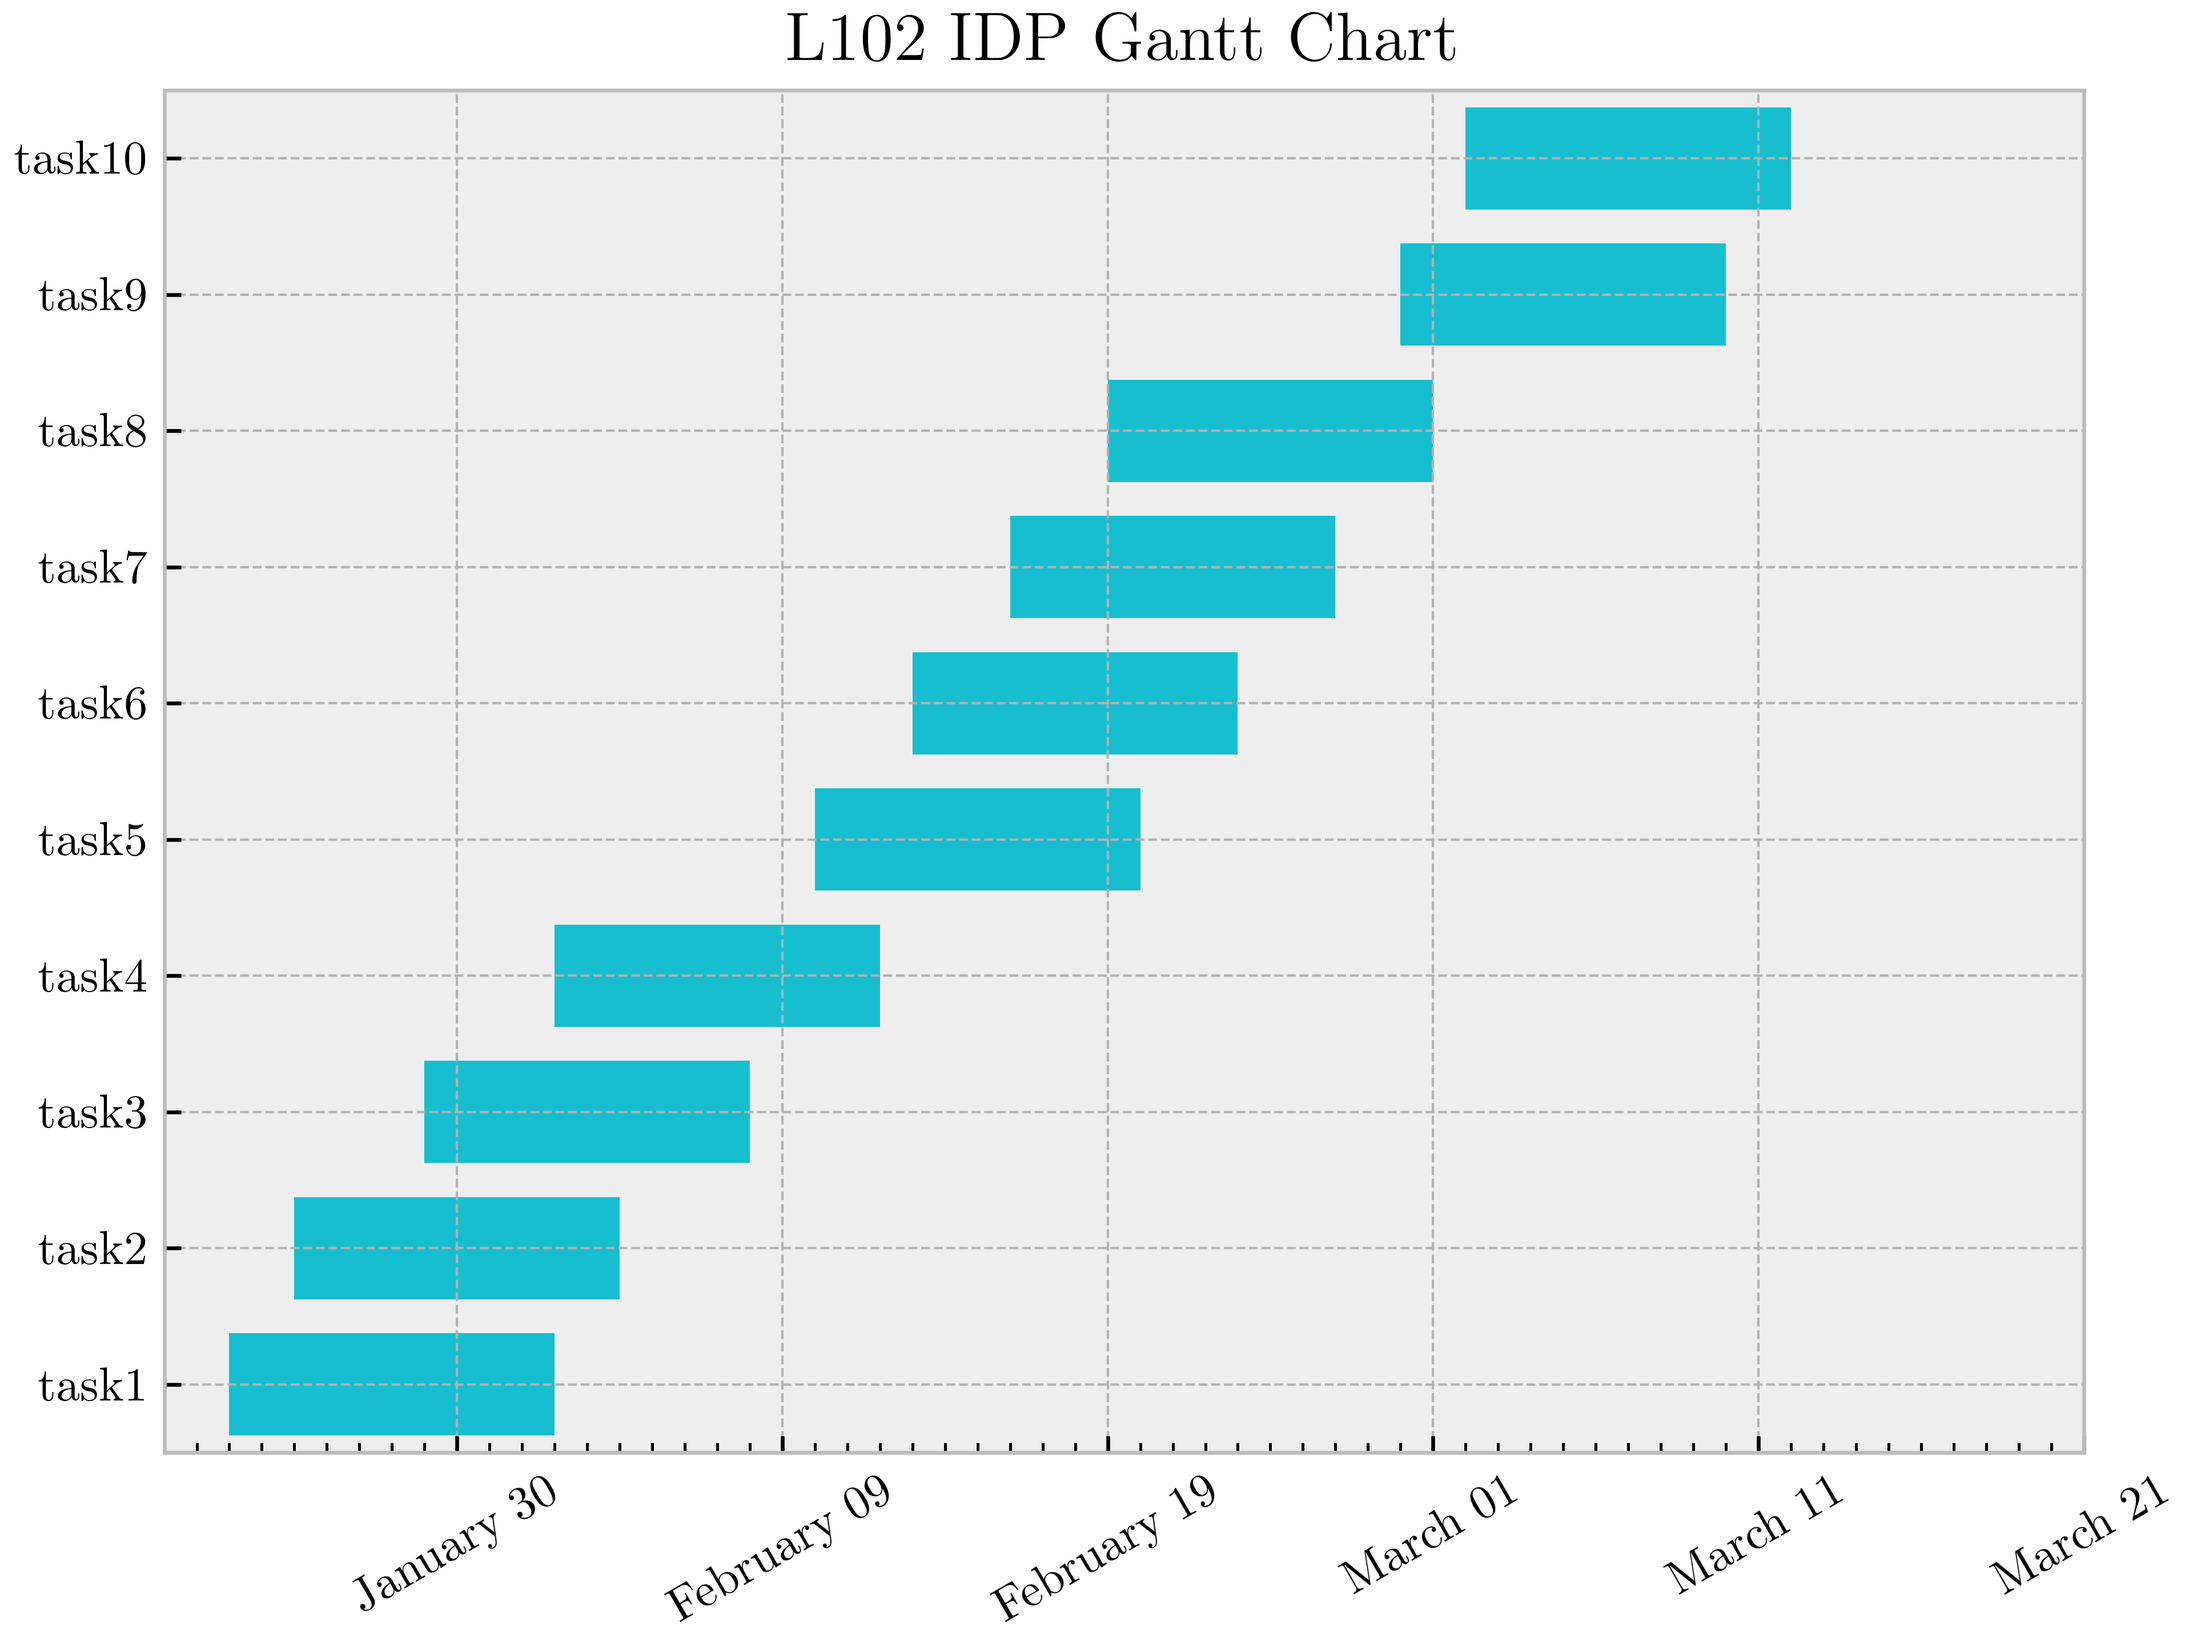
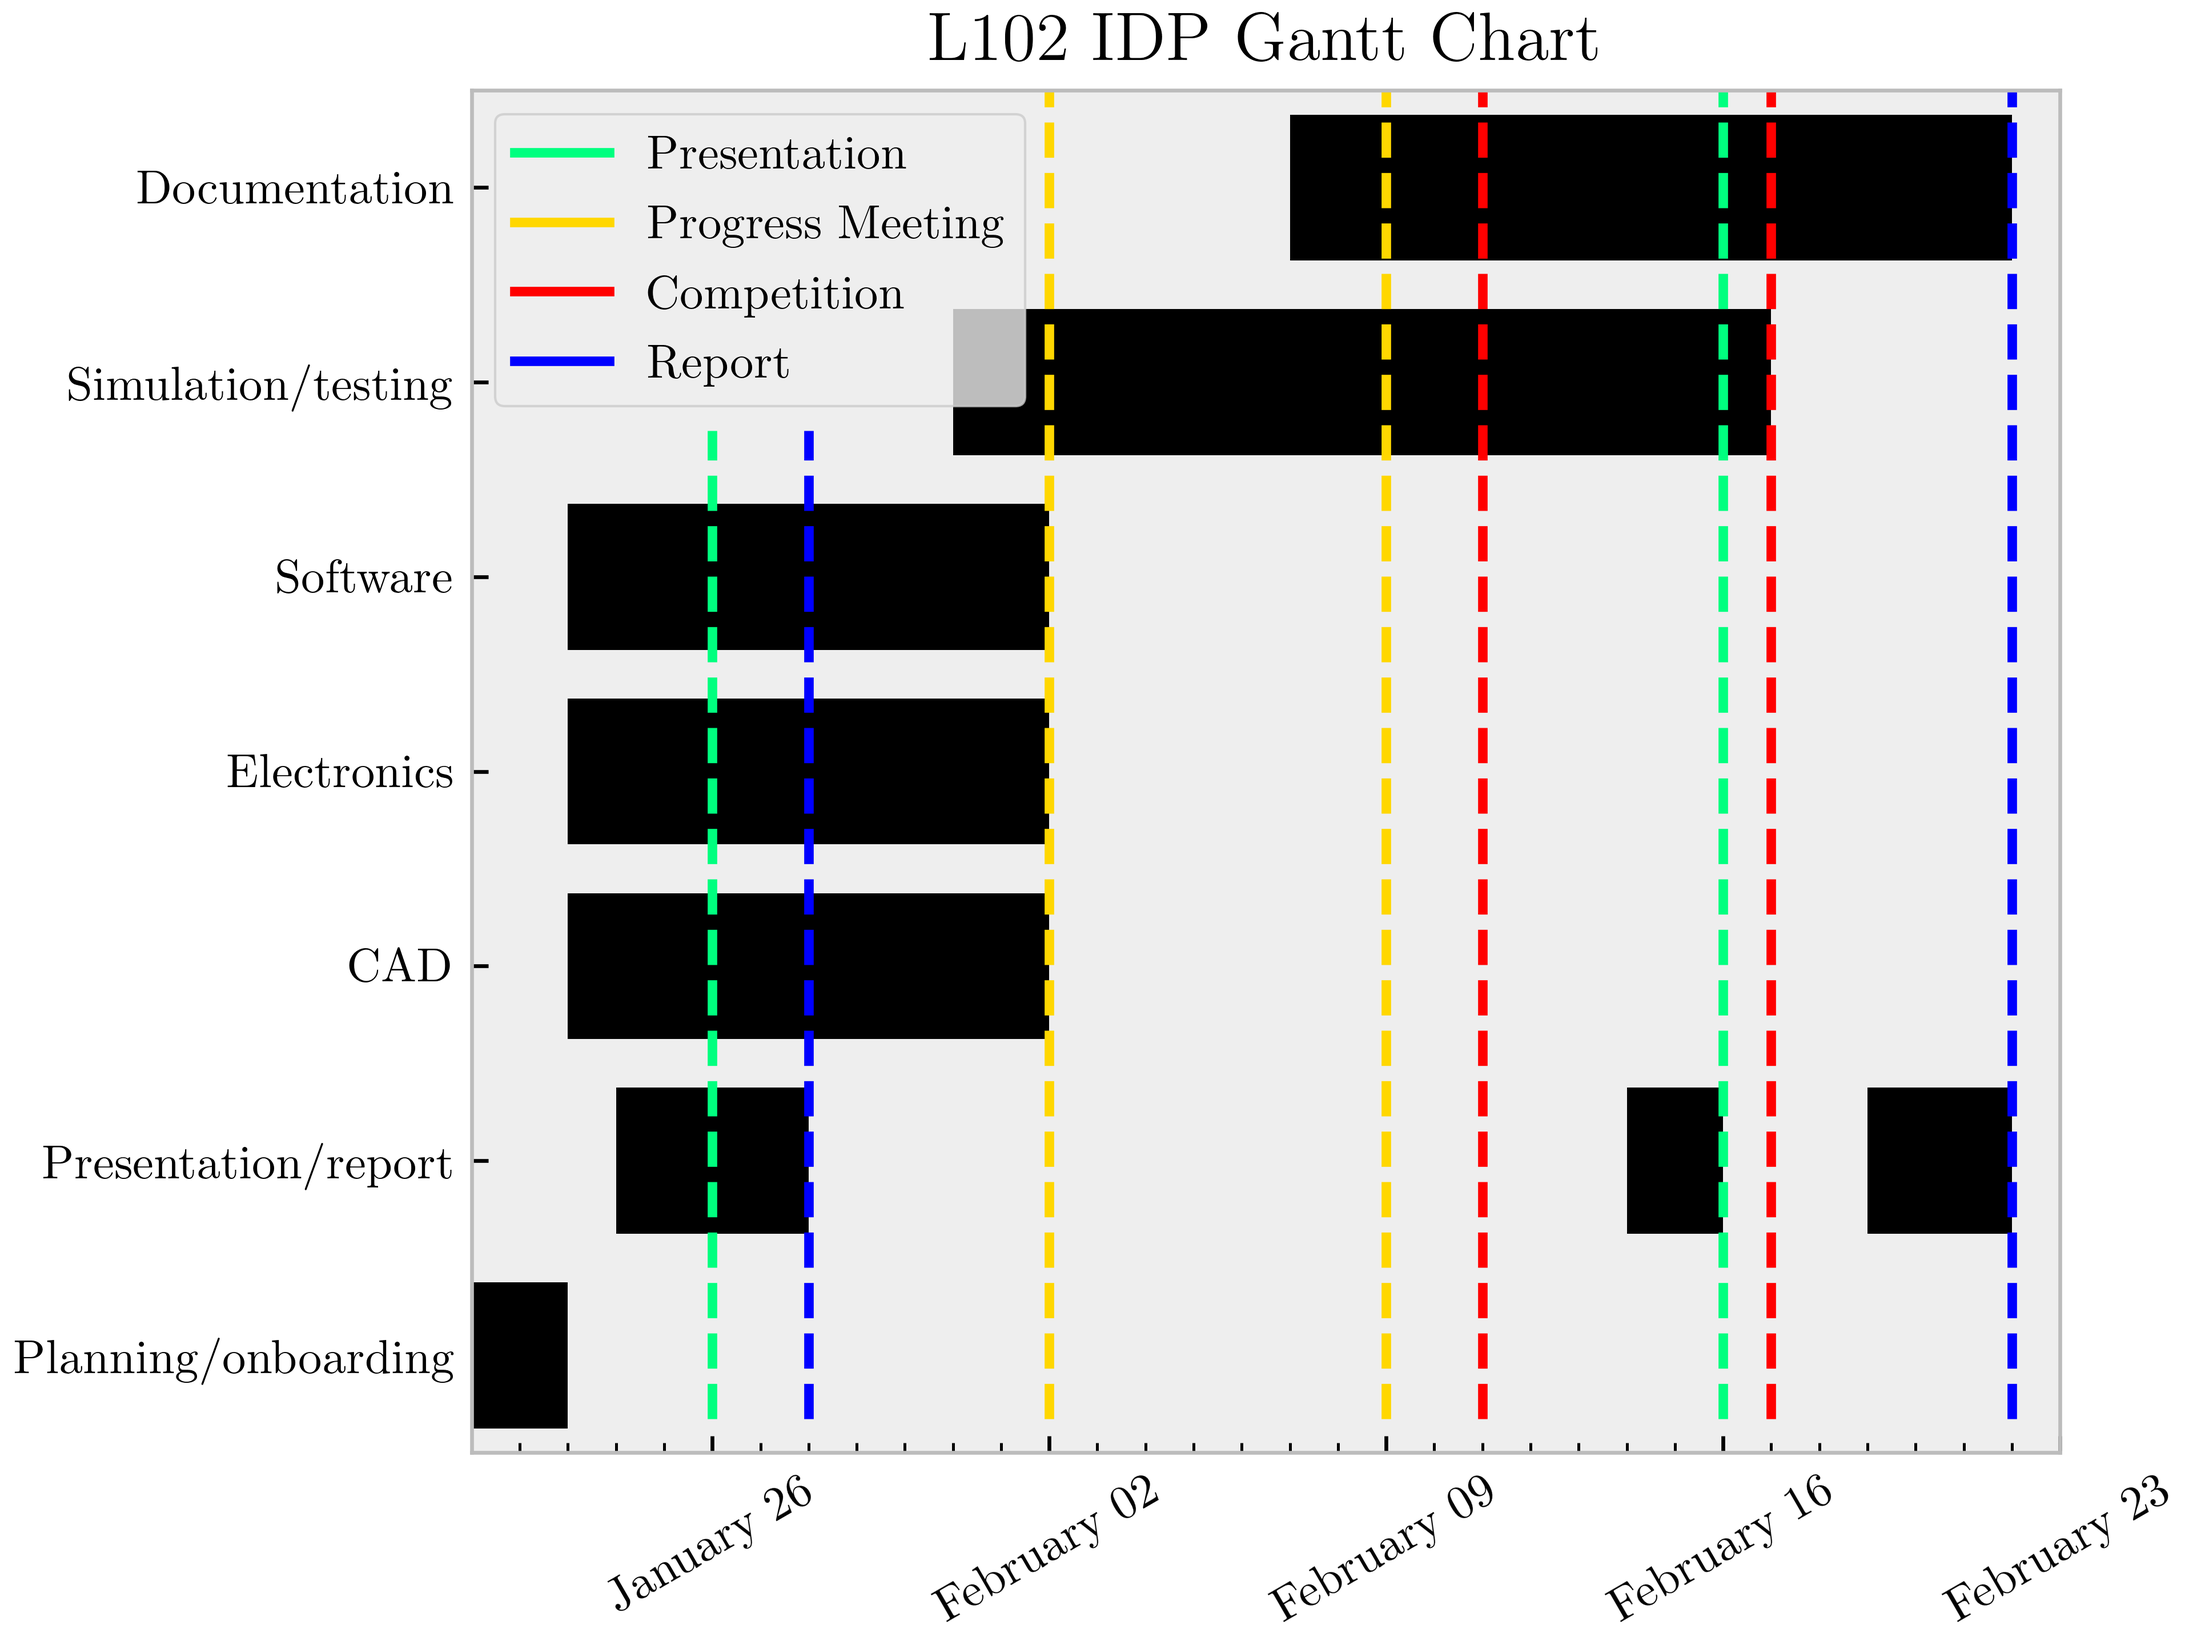
Updated gant chart.

diff --git a/ganttChart.py b/ganttChart.py
@@ -1,5 +1,6 @@
 import numpy as np
 import datetime
+from matplotlib.lines import Line2D
 import matplotlib.pylab as plt
 import matplotlib.dates as mdates
 import pandas as pd
@@ -11,40 +12,59 @@ plt.rc('font', family='serif')
 
 base = datetime.datetime(2021, 1, 21)
 dates = np.array([base + datetime.timedelta(days=(i))
-                  for i in range(60)])
+                  for i in range(34)])
 
-N = len(dates)
-np.random.seed(19680801)
-y = np.cumsum(np.random.randn(N))
 
 fig, ax = plt.subplots(constrained_layout=True)
 
 
 #format the ticks
-ax.xaxis.set_major_locator(mdates.DayLocator(bymonthday=range(1,32), interval=10))
+#ax.xaxis.set_major_locator(mdates.DayLocator(bymonthday=range(1,32), interval=7))
+ax.xaxis.set_major_locator(mdates.WeekdayLocator(byweekday=1, interval=1))
 ax.xaxis.set_major_formatter(mdates.DateFormatter('%B %d'))
 ax.xaxis.set_minor_locator(mdates.DayLocator(bymonthday=range(1,32)))
 
-ax.set_yticks([0.5, 1.5, 2.5, 3.5, 4.5, 5.5, 6.5, 7.5, 8.5, 9.5])
-ax.set_yticklabels(['task1', 'task2', 'task3', 'task4', 'task5', 'task6', 'task7', 'task8', 'task9', 'task10'])
+ax.set_yticks([0.5, 1.5, 2.5, 3.5, 4.5, 5.5, 6.5])
+ax.set_yticklabels(['Planning/onboarding', 'Presentation/report', 'CAD', 'Electronics', 'Software', 'Simulation/testing', 'Documentation', ])
 ax.set_xlim(mdates.date2num(dates[0]), mdates.date2num(dates[-1]))
-ax.set_ylim(0,10)
+ax.set_ylim(0,7)
 
 #broken barh
 #ax.broken_barh([(mdates.date2num(dates[0]), mdates.date2num(dates[10]))], (2,1), facecolors = ('tab:red'))
-ax.broken_barh([(mdates.date2num(dates[2]), 10)], (0.125, .75), facecolors='tab:cyan')
-ax.broken_barh([(mdates.date2num(dates[4]), 10)], (1.125, .75), facecolors='tab:cyan')
-ax.broken_barh([(mdates.date2num(dates[8]), 10)], (2.125, .75), facecolors='tab:cyan')
-ax.broken_barh([(mdates.date2num(dates[12]), 10)], (3.125, .75), facecolors='tab:cyan')
-ax.broken_barh([(mdates.date2num(dates[20]), 10)], (4.125, .75), facecolors='tab:cyan')
-ax.broken_barh([(mdates.date2num(dates[23]), 10)], (5.125, .75), facecolors='tab:cyan')
-ax.broken_barh([(mdates.date2num(dates[26]), 10)], (6.125, .75), facecolors='tab:cyan')
-ax.broken_barh([(mdates.date2num(dates[29]), 10)], (7.125, .75), facecolors='tab:cyan')
-ax.broken_barh([(mdates.date2num(dates[38]), 10)], (8.125, .75), facecolors='tab:cyan')
-ax.broken_barh([(mdates.date2num(dates[40]), 10)], (9.125, .75), facecolors='tab:cyan')
+barcolor='black'
+ax.broken_barh([(mdates.date2num(dates[0]), 2)], (0.125, .75), facecolors=barcolor)
+ax.broken_barh([(mdates.date2num(dates[2]), 10)], (2.125, .75), facecolors=barcolor)
+ax.broken_barh([(mdates.date2num(dates[2]), 10)], (3.125, .75), facecolors=barcolor)
+ax.broken_barh([(mdates.date2num(dates[2]), 10)], (4.125, .75), facecolors=barcolor)
+ax.broken_barh([(mdates.date2num(dates[10]), 17)], (5.125, .75), facecolors=barcolor)
+ax.broken_barh([(mdates.date2num(dates[17]), 15)], (6.125, .75), facecolors=barcolor)
+ax.broken_barh([(mdates.date2num(dates[3]), 4)], (1.125, .75), facecolors=barcolor)
+ax.broken_barh([(mdates.date2num(dates[24]), 2)], (1.125, .75), facecolors=barcolor)
+ax.broken_barh([(mdates.date2num(dates[29]), 3)], (1.125, .75), facecolors=barcolor)
 
+#deadline dates
+
+plt.axvline(x=mdates.date2num(datetime.datetime(2021, 1, 26)), color='springgreen', linestyle='dashed', ymin=.025, ymax=.75)
+plt.axvline(x=mdates.date2num(datetime.datetime(2021, 1, 28)), color='blue', linestyle='dashed', ymin=.025, ymax=.75)
+plt.axvline(x=mdates.date2num(datetime.datetime(2021, 2, 2)), color='gold', linestyle='dashed', ymin=.025)
+plt.axvline(x=mdates.date2num(datetime.datetime(2021, 2, 9)), color='gold', linestyle='dashed', ymin=.025)
+plt.axvline(x=mdates.date2num(datetime.datetime(2021, 2, 11)), color='red', linestyle='dashed', ymin=.025)
+plt.axvline(x=mdates.date2num(datetime.datetime(2021, 2, 16)), color='springgreen', linestyle='dashed', ymin=.025)
+plt.axvline(x=mdates.date2num(datetime.datetime(2021, 2, 17)), color='red', linestyle='dashed', ymin=.025)
+plt.axvline(x=mdates.date2num(datetime.datetime(2021, 2, 22)), color='blue', linestyle='dashed', ymin=.025)
 
 ax.set_title('L102 IDP Gantt Chart')
+
+#legend
+custom_lines = [Line2D([0], [0], color = 'springgreen'), Line2D([0], [0], color = 'gold'), Line2D([0], [0], color = 'red'), Line2D([0], [0], color = 'blue')]
+
+ax.legend(custom_lines,['Presentation', 'Progress Meeting', 'Competition', 'Report'], loc='upper left')
+
+ax.grid(False)
+
+
+
+
 
 plt.xticks(rotation=30)
 
